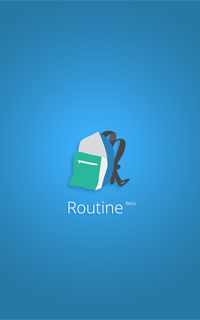
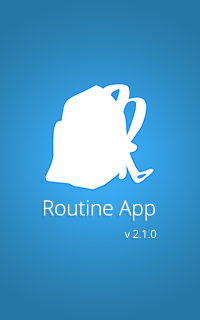
initial commit

Changed region(s): [[0.21, 0.25, 0.78, 0.6875], [0.63, 0.7188, 0.78, 0.75]]

diff --git a/routine/index.html b/routine/index.html
@@ -1,7 +1,7 @@
 <!DOCTYPE html>
-<!--<html lang=en manifest="offline.manifest"> -->
+<html lang=en manifest="offline.manifest">
 <head>
-<title>Routine 2.1.0 Beta</title>
+<title>Routine 2.1.0</title>
 <meta http-equiv=X-UA-Compatible content="IE=edge,chrome=1"/>
 <META http-equiv="Content-Type" content="text/html; charset=UTF-8">
 <meta name=viewport content="width=device-width, initial-scale=1.0, user-scalable=0"/>
@@ -17,12 +17,11 @@
 <link rel=apple-touch-icon sizes=152x152 href=touch-icon-ipad-retina.png>
 <link rel=apple-touch-startup-image href=startup.png>
 <meta name=apple-mobile-web-app-capable content=yes>
-<script>(function(i,s,o,g,r,a,m){i['GoogleAnalyticsObject']=r;i[r]=i[r]||function(){(i[r].q=i[r].q||[]).push(arguments)},i[r].l=1*new Date();a=s.createElement(o),m=s.getElementsByTagName(o)[0];a.async=1;a.src=g;m.parentNode.insertBefore(a,m)})(window,document,'script','//www.google-analytics.com/analytics.js','ga');ga('create','UA-46095251-6','bctians.com');ga('send','pageview');</script>
 </head>
 <body>
 <div id=main-container>
 <nav id=nav>
-<div id=app-name>ROUTINE <span class=sup>beta</span></div>
+<div id=app-name>ROUTINE</div>
 <div id=options>
 <img src="images/schedule.png" id=routine-schedule height=30px />
 <img src="images/info.png" id=information height=30px />
@@ -124,9 +123,7 @@
 </div>
 </form>
 <div id=about>
-<div class=container><span class=bold>Routine</span> is a smartphone app aimed to assist students with their busy college schedules. Please report bugs or leave suggestions <a class=report href="https://docs.google.com/forms/d/1AW0Xe-CoPrClQXSw-88bbF-wh797EK_jYeMutfAGHHE/viewform" target=_blank>here</a>.
-<br><br>
-<span class=bold style="color:#3498DB">*</span> This is a prototype version of Routine. The newer version of App will have integration of all features mentioned in the document.
+<div class=container><span class=bold>Routine</span> is a smartphone app aimed to assist students with their busy college schedules.
 </div>
 <div class=contributer>
 <div class=img-container><img src="images/email.png"/></div>

diff --git a/README.md b/README.md
@@ -1,23 +1,27 @@
-OIL PRICE COMPARISON
-====================
+ROUTINE APP
+===========
 
 Routine app is designed to assist students with their college schedules.
 
 
 VERSION:
 --------
-Routine 2.1.0 Beta
+Routine 2.1.0
 
 
-CONTRIBUTORS:
+Requirements:
 -------------
-* [Ashmita](http://about.me/mishraashmita)
-* [Ayush](http://about.me/ayushmaharjan)
-* [Deepak](http://about.me/deepsadhi)
-* [Kshitiz](http://about.me/kshitiztiwari)
-* [Manisha](http://about.me/manisapanta)
+* Web Server to host App
+* PhoneGap or Cordova to port to Mobile Platform
+* noSQL database to store information
 
+Steps we had followed:
+----------------------
+1) Hosted Routine App on our Server. Ported App to Android using PhoneGap
+2) Hosted our class informations, configurations, routines on MongoLab. (Sample json files can be found in noSQL directory)
+3) Used appspot as our intermediate server that bridges between MongoLab and Routine App to secure API Key
 
 CONTACT US:
 -----------
 [mail@bctians.com](mail@bctians.com)
+
